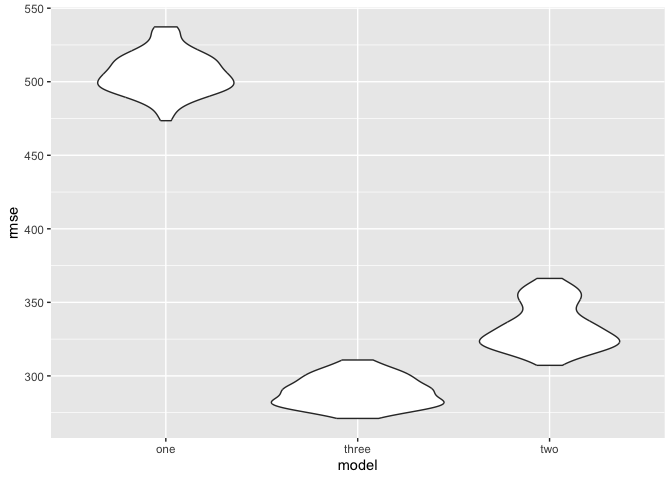
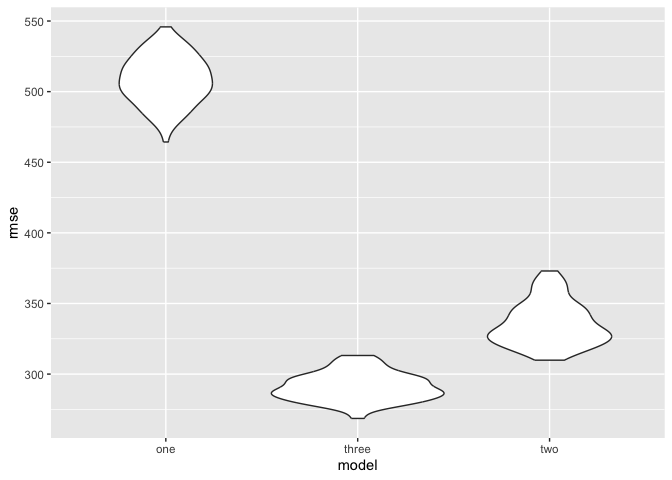
applying glm for each city in the dataset

diff --git a/hw6.md b/hw6.md
@@ -41,7 +41,7 @@ of your estimates, and describe these in words. Using the 5000 bootstrap
 estimates, identify the 2.5% and 97.5% quantiles to provide a 95%
 confidence interval for 𝑟̂ 2 and log(𝛽̂ 0∗𝛽̂ 1) . Note: broom::glance() is
 helpful for extracting 𝑟̂ 2 from a fitted regression, and broom::tidy()
-(with some additional wrangling) should help in computing log(𝛽̂ 0∗𝛽̂ 1) .
+(with some additional wrangling) should help in computing log(𝛽̂ 0∗𝛽̂ 1).
 
 ## Problem 2
 
@@ -111,6 +111,9 @@ baltimore_glm |>
 |:---------------|------:|-------:|--------:|
 | victim_sexMale | 0.426 |  0.324 |   0.558 |
 
+The odds of solving homicides for male victims is 0.426 times the odds
+of solving homicides for female victims is 0.426.
+
 Now run glm for each of the cities in your dataset, and extract the
 adjusted odds ratio (and CI) for solving homicides comparing male
 victims to female victims. Do this within a “tidy” pipeline, making use
@@ -118,40 +121,79 @@ of purrr::map, list columns, and unnest as necessary to create a
 dataframe with estimated ORs and CIs for each city.
 
 ``` r
-run_glm_for_city <- function(city) {
-  glm_fit <- usa_df |>
-    filter(city_state == city) |>
-    glm(resolved ~ victim_age + victim_sex + victim_race, data = _, family = binomial())
-  
-  glm_fit |>
-    broom::tidy(conf.int = TRUE) |>
-    filter(term == "victim_sexmale") |>
-    mutate(
-      OR = exp(estimate),
-      CI_low = exp(conf.low),
-      CI_high = exp(conf.high)
+usa_glm = usa_df |>
+  mutate(
+    victim_race = fct_relevel(victim_race, "White"), 
+    victim_sex = fct_relevel(victim_sex, "Female")) |>
+  select(city_state, resolved, victim_age, victim_sex, victim_race) |>
+    group_by(city_state) |>
+  nest() |>
+  mutate(
+    city_model = map(data, ~glm(resolved ~ victim_age + victim_sex + victim_race , data = ., family = binomial())),
+    city_results = map(city_model, broom::tidy)) |>
+  unnest(city_results) |> 
+  mutate( 
+    OR = exp(estimate), 
+    CI_low = exp(estimate - (1.96*std.error)) , 
+    CI_high = exp(estimate + (1.96*std.error)), 
     ) |>
-    select(city_state = city, OR, CI_low, CI_high)
-}
+  select(city_state, term, OR, CI_low, CI_high) |>
+  filter(
+    term == "victim_sexMale") |>
+  select(city_state, OR, CI_low, CI_high) 
+
+knitr::kable(usa_glm, digits = 3)
 ```
 
-``` r
-usa_glm = function(path, city_state) {
-  
-  df = 
-  usa_df |>
-  nest(data = -city_state) |>
-  glm(resolved ~ victim_age + victim_sex + victim_race, data = _, family = binomial()) |>
-  
-  broom::tidy(conf.int = TRUE) |> 
-  mutate(OR = exp(estimate),
-         CI_low = exp(conf.low),
-         CI_high = exp(conf.high)) |>
-  filter(term == "victim_sexMale") |>
-  select(city_state, term, OR, CI_low, CI_high) |> 
-  knitr::kable(digits = 3)
-}
-```
+| city_state        |    OR | CI_low | CI_high |
+|:------------------|------:|-------:|--------:|
+| Albuquerque,NM    | 1.767 |  0.831 |   3.761 |
+| Atlanta,GA        | 1.000 |  0.684 |   1.463 |
+| Baltimore,MD      | 0.426 |  0.325 |   0.558 |
+| Baton Rouge,LA    | 0.381 |  0.209 |   0.695 |
+| Birmingham,AL     | 0.870 |  0.574 |   1.318 |
+| Boston,MA         | 0.674 |  0.356 |   1.276 |
+| Buffalo,NY        | 0.521 |  0.290 |   0.935 |
+| Charlotte,NC      | 0.884 |  0.557 |   1.403 |
+| Chicago,IL        | 0.410 |  0.336 |   0.501 |
+| Cincinnati,OH     | 0.400 |  0.236 |   0.677 |
+| Columbus,OH       | 0.532 |  0.378 |   0.750 |
+| Denver,CO         | 0.479 |  0.236 |   0.971 |
+| Detroit,MI        | 0.582 |  0.462 |   0.734 |
+| Durham,NC         | 0.812 |  0.392 |   1.683 |
+| Fort Worth,TX     | 0.669 |  0.397 |   1.127 |
+| Fresno,CA         | 1.335 |  0.580 |   3.071 |
+| Houston,TX        | 0.711 |  0.558 |   0.907 |
+| Indianapolis,IN   | 0.919 |  0.679 |   1.242 |
+| Jacksonville,FL   | 0.720 |  0.537 |   0.966 |
+| Las Vegas,NV      | 0.837 |  0.608 |   1.154 |
+| Long Beach,CA     | 0.410 |  0.156 |   1.082 |
+| Los Angeles,CA    | 0.662 |  0.458 |   0.956 |
+| Louisville,KY     | 0.491 |  0.305 |   0.790 |
+| Memphis,TN        | 0.723 |  0.529 |   0.988 |
+| Miami,FL          | 0.515 |  0.304 |   0.872 |
+| Milwaukee,wI      | 0.727 |  0.499 |   1.060 |
+| Minneapolis,MN    | 0.947 |  0.478 |   1.875 |
+| Nashville,TN      | 1.034 |  0.685 |   1.562 |
+| New Orleans,LA    | 0.585 |  0.422 |   0.811 |
+| New York,NY       | 0.262 |  0.138 |   0.499 |
+| Oakland,CA        | 0.563 |  0.365 |   0.868 |
+| Oklahoma City,OK  | 0.974 |  0.624 |   1.520 |
+| Omaha,NE          | 0.382 |  0.203 |   0.721 |
+| Philadelphia,PA   | 0.496 |  0.378 |   0.652 |
+| Pittsburgh,PA     | 0.431 |  0.265 |   0.700 |
+| Richmond,VA       | 1.006 |  0.498 |   2.033 |
+| San Antonio,TX    | 0.705 |  0.398 |   1.249 |
+| Sacramento,CA     | 0.669 |  0.335 |   1.337 |
+| Savannah,GA       | 0.867 |  0.422 |   1.780 |
+| San Bernardino,CA | 0.500 |  0.171 |   1.462 |
+| San Diego,CA      | 0.413 |  0.200 |   0.855 |
+| San Francisco,CA  | 0.608 |  0.317 |   1.165 |
+| St. Louis,MO      | 0.703 |  0.530 |   0.932 |
+| Stockton,CA       | 1.352 |  0.621 |   2.942 |
+| Tampa,FL          | 0.808 |  0.348 |   1.876 |
+| Tulsa,OK          | 0.976 |  0.614 |   1.552 |
+| Washington,DC     | 0.690 |  0.468 |   1.017 |
 
 Create a plot that shows the estimated ORs and CIs for each city.
 Organize cities according to estimated OR, and comment on the plot.
@@ -290,15 +332,15 @@ cv_df |>
     ##    babysex bhead blength   bwt delwt fincome frace gaweeks malform menarche
     ##    <fct>   <dbl>   <dbl> <dbl> <dbl>   <dbl> <fct>   <dbl> <fct>      <dbl>
     ##  1 female     34      51  3629   177      35 White    39.9 absent        13
-    ##  2 male       34      48  3062   156      65 Black    25.9 absent        14
-    ##  3 female     36      50  3345   148      85 White    39.9 absent        12
-    ##  4 male       34      52  3062   157      55 White    40   absent        14
-    ##  5 female     34      52  3374   156       5 White    41.6 absent        13
-    ##  6 male       33      52  3374   129      55 White    40.7 absent        12
-    ##  7 female     33      46  2523   126      96 Black    40.3 absent        14
-    ##  8 female     33      49  2778   140       5 White    37.4 absent        12
-    ##  9 male       36      52  3515   146      85 White    40.3 absent        11
-    ## 10 male       33      50  3459   169      75 Black    40.7 absent        12
+    ##  2 female     36      50  3345   148      85 White    39.9 absent        12
+    ##  3 female     34      52  3374   156       5 White    41.6 absent        13
+    ##  4 male       33      52  3374   129      55 White    40.7 absent        12
+    ##  5 female     33      46  2523   126      96 Black    40.3 absent        14
+    ##  6 male       36      52  3515   146      85 White    40.3 absent        11
+    ##  7 female     35      51  3317   130      55 White    43.4 absent        13
+    ##  8 female     35      48  3175   158      75 White    39.7 absent        13
+    ##  9 male       36      53  3629   147      75 White    41.3 absent        11
+    ## 10 male       35      51  3544   129      65 White    39.6 absent        12
     ## # ℹ 3,463 more rows
     ## # ℹ 10 more variables: mheight <dbl>, momage <dbl>, mrace <fct>, parity <dbl>,
     ## #   pnumlbw <dbl>, pnumsga <dbl>, ppbmi <dbl>, ppwt <dbl>, smoken <dbl>,
@@ -333,7 +375,7 @@ cv_res_df |>
   geom_violin()
 ```
 
-![](hw6_files/figure-gfm/unnamed-chunk-14-1.png)<!-- -->
+![](hw6_files/figure-gfm/unnamed-chunk-15-1.png)<!-- -->
 
 Model one has the highest rmse, whereas model two has the second highest
 rmse and model three has the lowest rmse. Model three, the model using
